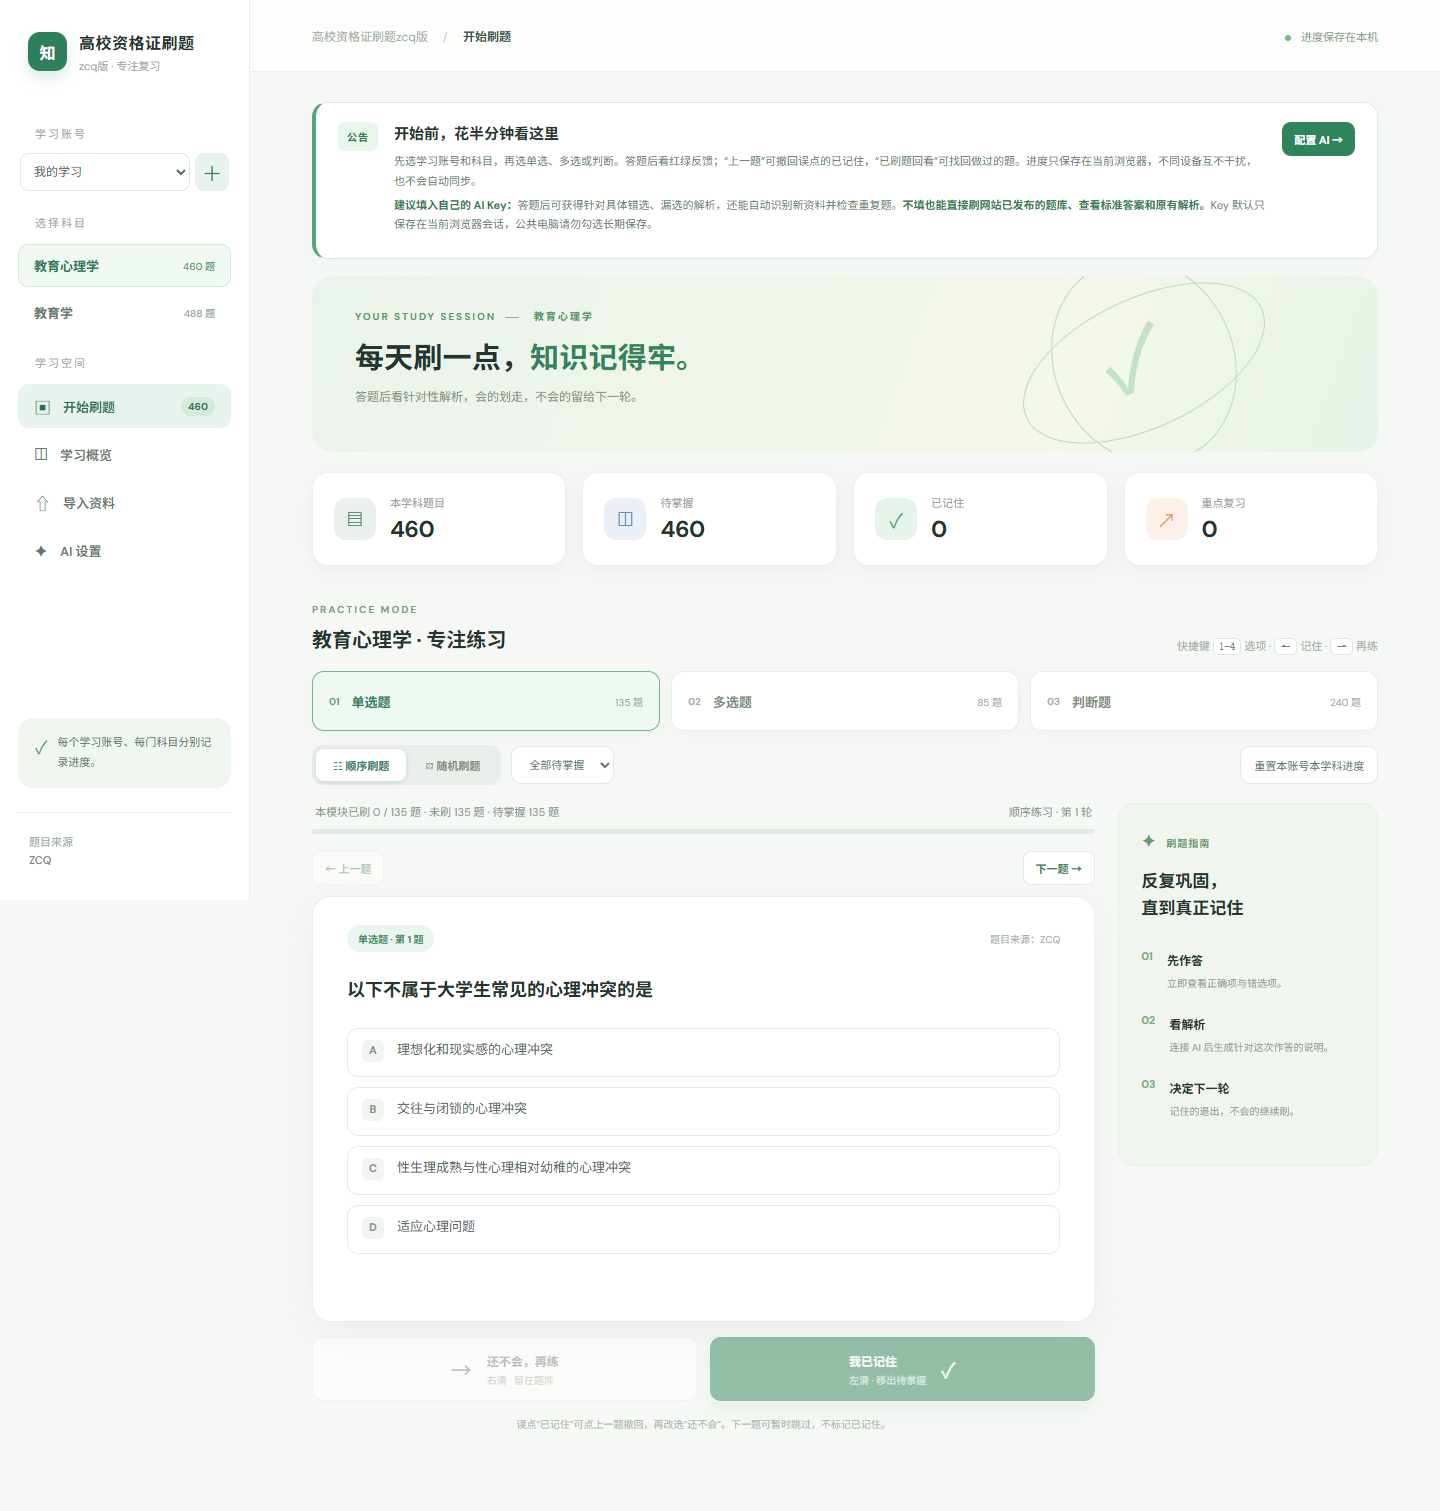
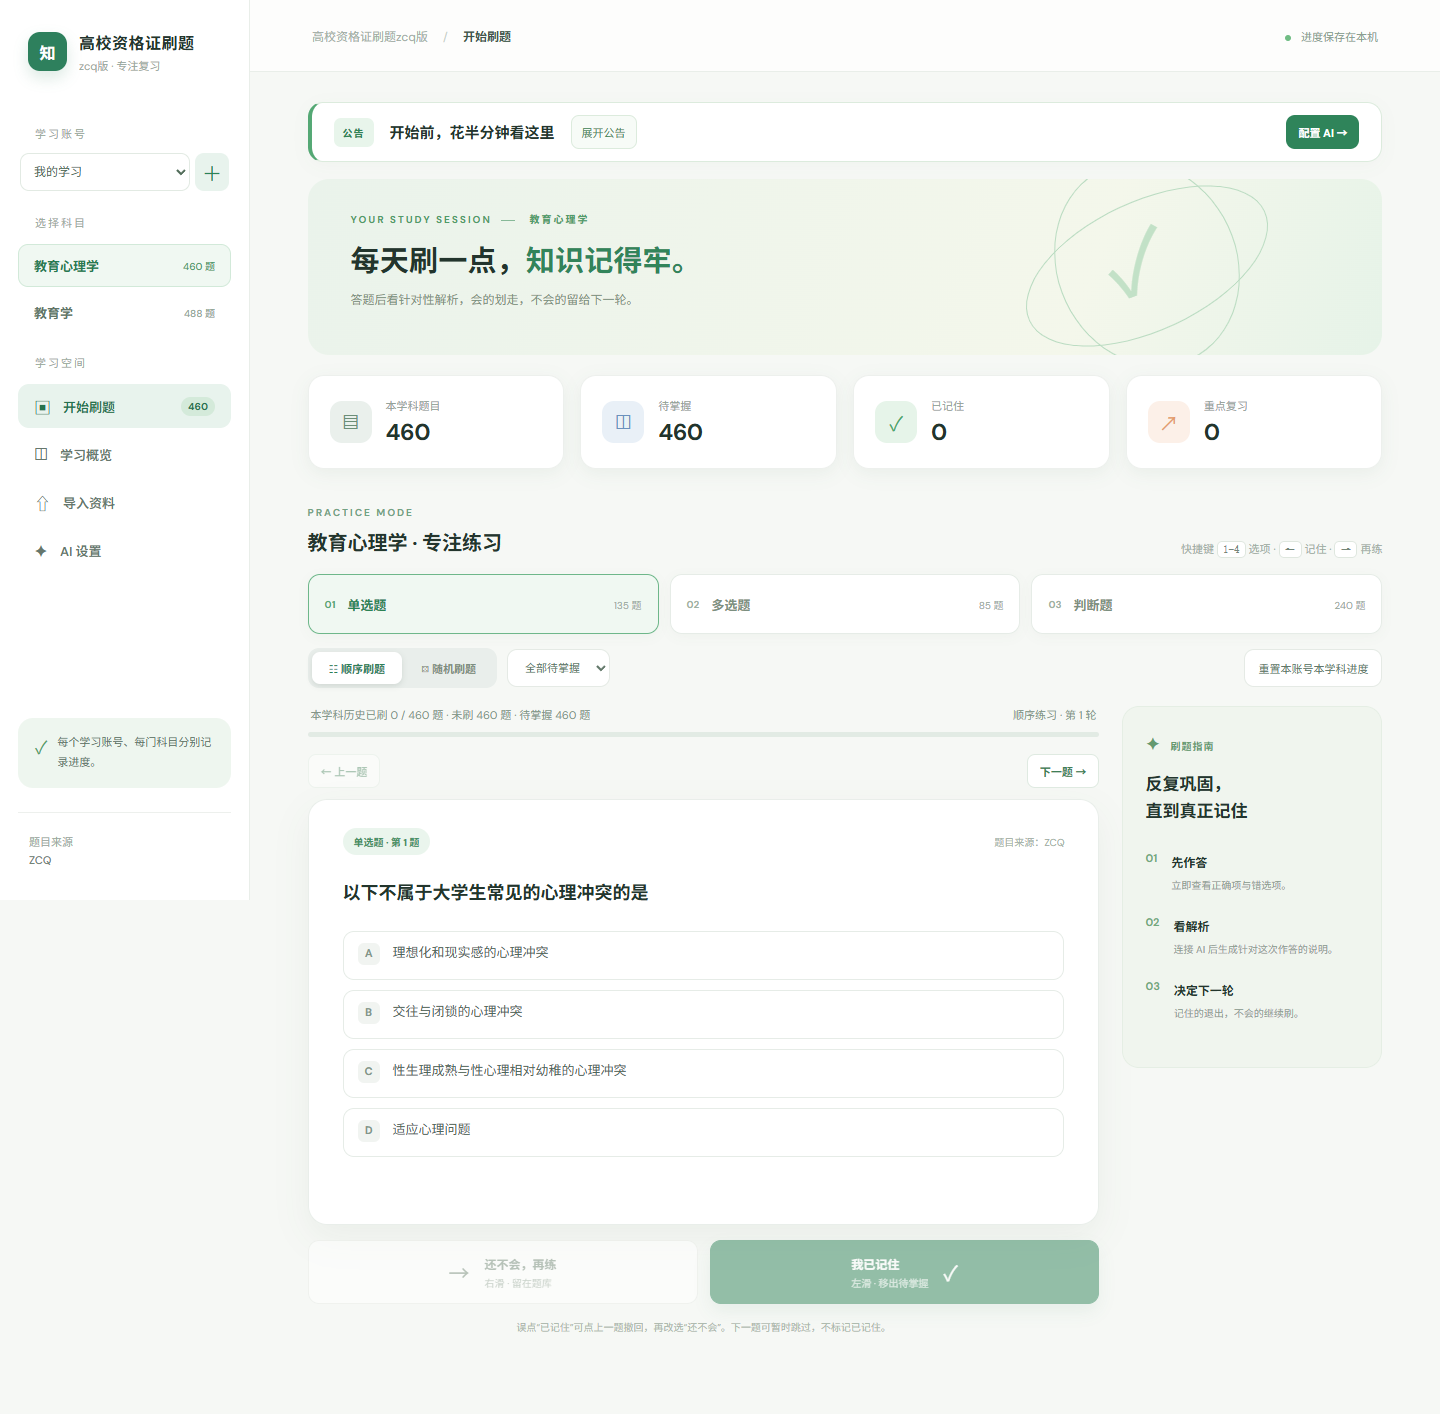
优化宽屏布局并支持收起公告

diff --git a/styles.css b/styles.css
@@ -11,6 +11,8 @@
 .retry-answer{display:block;margin:12px 0 0 auto;border:1px solid #cde5d2;border-radius:8px;background:#f2faf4;color:#348359;padding:8px 13px;font-size:11px;font-weight:700}
 .duplicate-panel{border:1px solid #f1d7a3;background:#fffaf0;border-radius:12px;padding:16px;margin:20px 0}.duplicate-panel h3{font-size:14px;margin:0 0 5px;color:#795a1e}.duplicate-panel>p{font-size:11px;color:#8d7549;margin:0 0 10px}.duplicate-row{display:flex;align-items:center;gap:12px;border-top:1px solid #f2e6ce;padding:10px 0;font-size:11px;line-height:1.7}.duplicate-row>div{flex:1;min-width:0}.duplicate-row strong{color:#6e592e}.duplicate-row small{color:#917f5c;margin-left:5px}.duplicate-row select{width:100px!important;flex:none;padding:7px!important}.conflict{display:inline-block;color:#bd4f45;margin-left:7px}.no-duplicates{font-size:11px!important;color:#4c9163!important;margin:14px 0 0!important}
 @media(max-width:700px){.duplicate-row{display:block}.duplicate-row select{margin-top:8px}}
+.content{max-width:none;padding-left:clamp(24px,4vw,64px);padding-right:clamp(24px,4vw,64px)}
+.announcement-toggle{border:1px solid #dcebdd;background:#f7fbf7;color:#4e8b62;border-radius:8px;padding:8px 10px;font-size:11px;white-space:nowrap}.announcement.is-collapsed{align-items:center;padding-top:12px;padding-bottom:12px}.announcement.is-collapsed h2{margin:0}.announcement.is-collapsed p{display:none}
 .announcement{display:flex;align-items:flex-start;gap:16px;background:#fff;border:1px solid #dcebdd;border-left:4px solid #54a874;border-radius:15px;padding:19px 22px;margin-bottom:17px;box-shadow:0 4px 18px #315b3808}.announcement-icon{flex:none;border-radius:7px;background:#e8f5eb;color:#318454;padding:7px 9px;font-size:10px;font-weight:800;letter-spacing:1px}.announcement h2{font-size:15px;margin:0 0 8px}.announcement p{font-size:11px;line-height:1.8;color:#6b7e70;margin:4px 0}.announcement p strong{color:#357b52}.notice-button{margin-left:auto;flex:none;border:0;background:#2f845a;color:#fff;border-radius:9px;padding:9px 12px;font-size:11px;font-weight:700;white-space:nowrap}
 @media(max-width:700px){.announcement{display:block;padding:15px}.announcement-icon{display:inline-block;margin-bottom:8px}.notice-button{margin-top:10px}}
 .option-analysis{border-top:1px solid #e3ede5;margin-top:12px;padding-top:11px}.option-analysis>strong{display:block;color:#3c664b;font-size:12px;margin-bottom:8px}.analysis-row{display:flex;gap:10px;align-items:flex-start;border-radius:8px;padding:8px 9px;margin-top:5px;font-size:12px;line-height:1.7;white-space:pre-wrap}.analysis-row b{flex:none;width:23px;height:23px;border-radius:6px;display:grid;place-items:center;background:#edf1ee;color:#607565}.analysis-row.is-correct{background:#eaf7ed;color:#2f7650}.analysis-row.is-correct b{background:#4baa6a;color:#fff}.analysis-row.is-wrong{background:#f8f5f3;color:#6a655e}

diff --git a/index.html b/index.html
@@ -29,7 +29,7 @@
     <main class="main">
       <header class="topbar"><div class="breadcrumbs">高校资格证刷题zcq版 <span>/</span> <strong id="pageTitle">开始刷题</strong></div><div class="top-right"><span class="live-dot"></span> 进度保存在本机</div></header>
       <div class="content">
-        <section class="announcement" aria-label="使用公告"><div class="announcement-icon">公告</div><div><h2>开始前，花半分钟看这里</h2><p>先选学习账号和科目，再选单选、多选或判断。答题后看红绿反馈；“上一题”可撤回误点的已记住，“已刷题回看”可找回做过的题。进度只保存在当前浏览器，不同设备互不干扰，也不会自动同步。</p><p><strong>建议填入自己的 AI Key：</strong>答题后可获得针对具体错选、漏选的解析，还能自动识别新资料并检查重复题。<strong>不填也能直接刷网站已发布的题库、查看标准答案和原有解析。</strong>Key 默认只保存在当前浏览器会话，公共电脑请勿勾选长期保存。</p></div><button id="noticeAiBtn" class="notice-button">配置 AI →</button></section>
+        <section class="announcement" aria-label="使用公告"><div class="announcement-icon">公告</div><div><h2>开始前，花半分钟看这里</h2><p>先选学习账号和科目，再选单选、多选或判断。答题后看红绿反馈；“上一题”可撤回误点的已记住，“已刷题回看”可找回做过的题。进度只保存在当前浏览器，不同设备互不干扰，也不会自动同步。</p><p><strong>建议填入自己的 AI Key：</strong>答题后可获得针对具体错选、漏选的解析，还能自动识别新资料并检查重复题。<strong>不填也能直接刷网站已发布的题库、查看标准答案和原有解析。</strong>Key 默认只保存在当前浏览器会话，公共电脑请勿勾选长期保存。</p></div><button id="announcementToggle" class="announcement-toggle">收起公告</button><button id="noticeAiBtn" class="notice-button">配置 AI →</button></section>
         <section class="hero"><div><div class="eyebrow">YOUR STUDY SESSION <span></span> <span id="heroSubject">教育心理学</span></div><h1>每天刷一点，<em>知识记得牢。</em></h1><p>答题后看针对性解析，会的划走，不会的留给下一轮。</p></div><div class="hero-decoration"><div class="orbit orbit-one"></div><div class="orbit orbit-two"></div><div class="hero-book">✓</div></div></section>
         <section class="stats" aria-label="学习统计">
           <div class="stat"><div class="stat-icon sage">▤</div><div><span>本学科题目</span><strong id="statTotal">—</strong></div></div>

diff --git a/app.js b/app.js
@@ -426,6 +426,17 @@ function bind() {
   $('#materialFile').onchange = event => { $('#fileStatus').textContent = event.target.files[0]?.name || '尚未选择文件'; };
   $('#startImportBtn').onclick = startImport;
   $('#noticeAiBtn').onclick = () => setView('settings');
+  $('#announcementToggle').onclick = event => {
+    const announcement = event.currentTarget.closest('.announcement');
+    const collapsed = announcement.classList.toggle('is-collapsed');
+    event.currentTarget.textContent = collapsed ? '展开公告' : '收起公告';
+    localStorage.setItem('zcq-announcement-collapsed', collapsed ? '1' : '0');
+  };
+  if (localStorage.getItem('zcq-announcement-collapsed') === '1') {
+    const announcement = $('#announcementToggle')?.closest('.announcement');
+    announcement?.classList.add('is-collapsed');
+    if (announcement) $('#announcementToggle').textContent = '展开公告';
+  }
   $('#exportBankBtn').onclick = () => {
     const file = new Blob([JSON.stringify(questions, null, 2)], { type: 'application/json' });
     const link = document.createElement('a');
